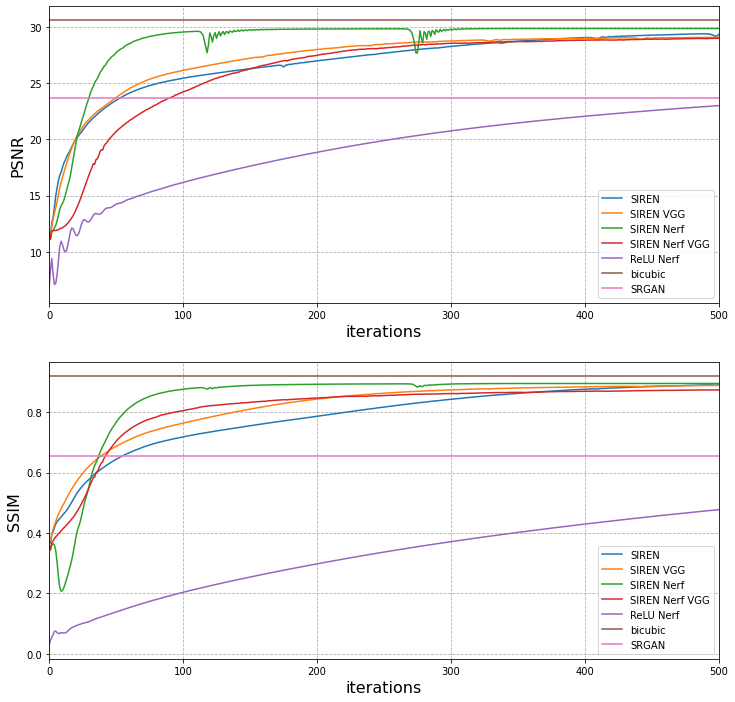
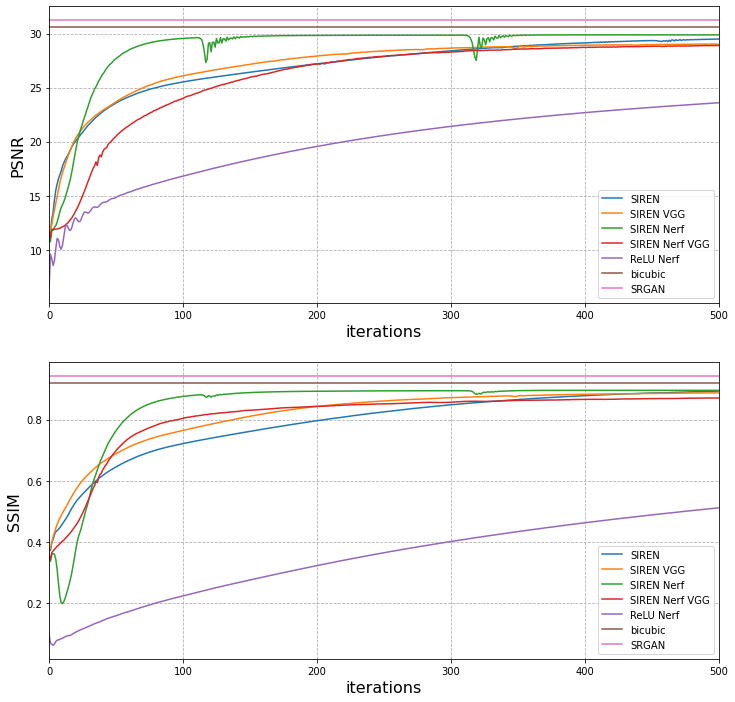
fix: wrong values

diff --git a/results/step5/compare_all/div2k/X2/README.md b/results/step5/compare_all/div2k/X2/README.md
@@ -43,23 +43,23 @@ hidden layers: 3
 hidden features: 512
 
 PSNR:
-	SIREN: 29.324814
-	SIREN VGG: 29.061607
-	SIREN Nerf: 29.843669
-	SIREN Nerf VGG: 28.979864
-	ReLU Nerf: 23.000386
+	SIREN: 29.502020
+	SIREN VGG: 29.000240
+	SIREN Nerf: 29.888279
+	SIREN Nerf VGG: 28.905452
+	ReLU Nerf: 23.608298
 	bicubic: 30.607076
-	SRGAN: 23.672188
+	SRGAN: 31.270539
 
 
 SSIM:
-	SIREN: 0.890223
-	SIREN VGG: 0.888184
-	SIREN Nerf: 0.894717
-	SIREN Nerf VGG: 0.873617
-	ReLU Nerf: 0.477291
+	SIREN: 0.892635
+	SIREN VGG: 0.886549
+	SIREN Nerf: 0.895176
+	SIREN Nerf VGG: 0.870246
+	ReLU Nerf: 0.511899
 	bicubic: 0.920178
-	SRGAN: 0.656393
+	SRGAN: 0.942680
 ```
 
 ```
